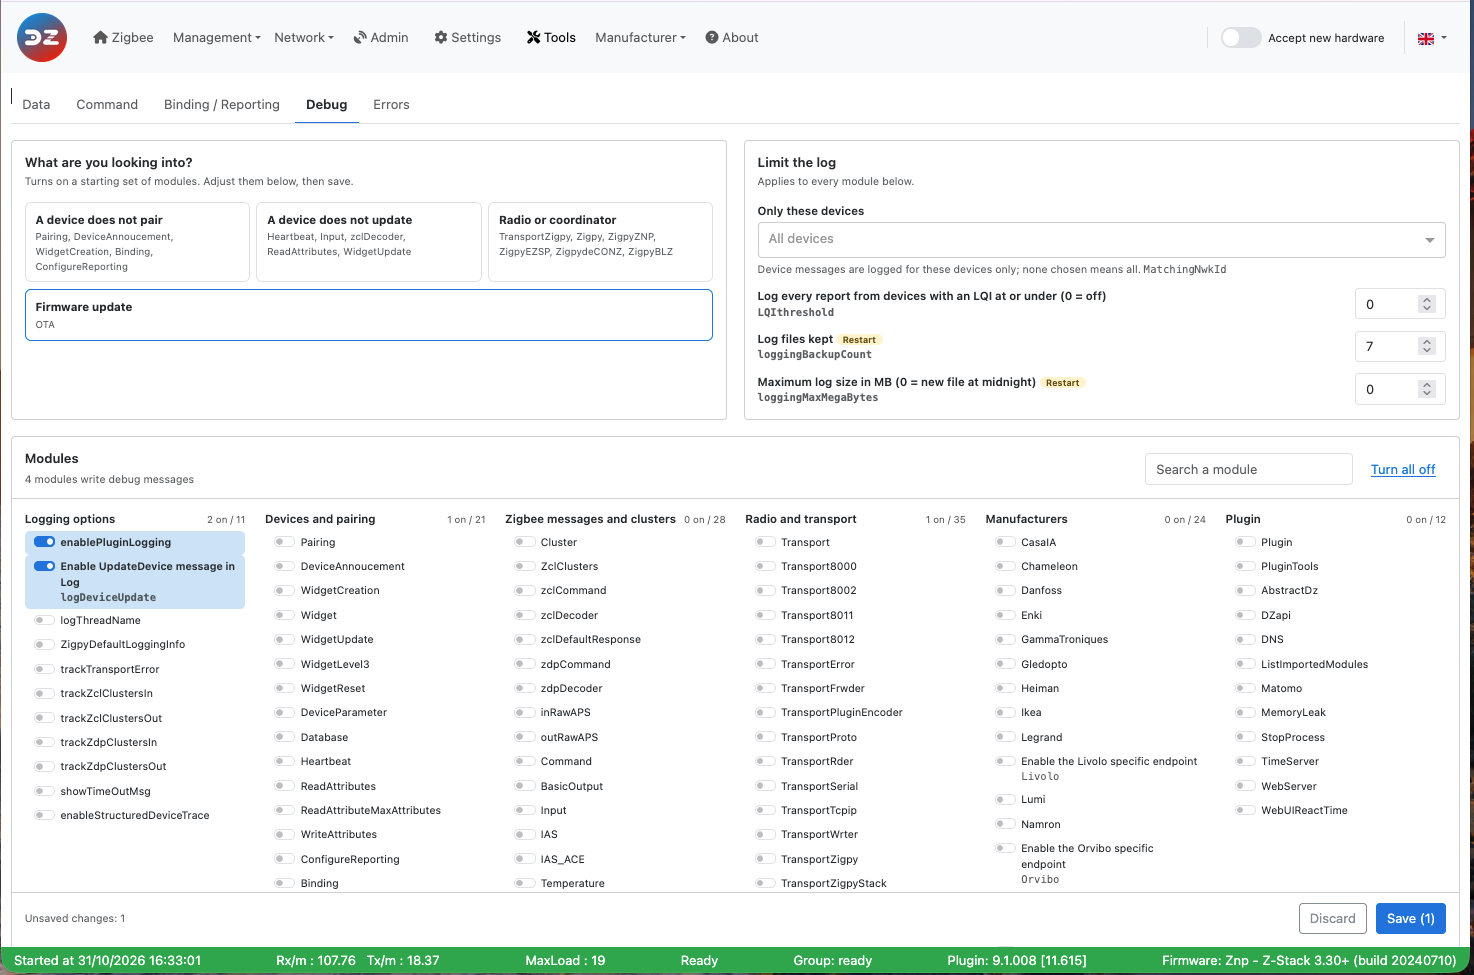
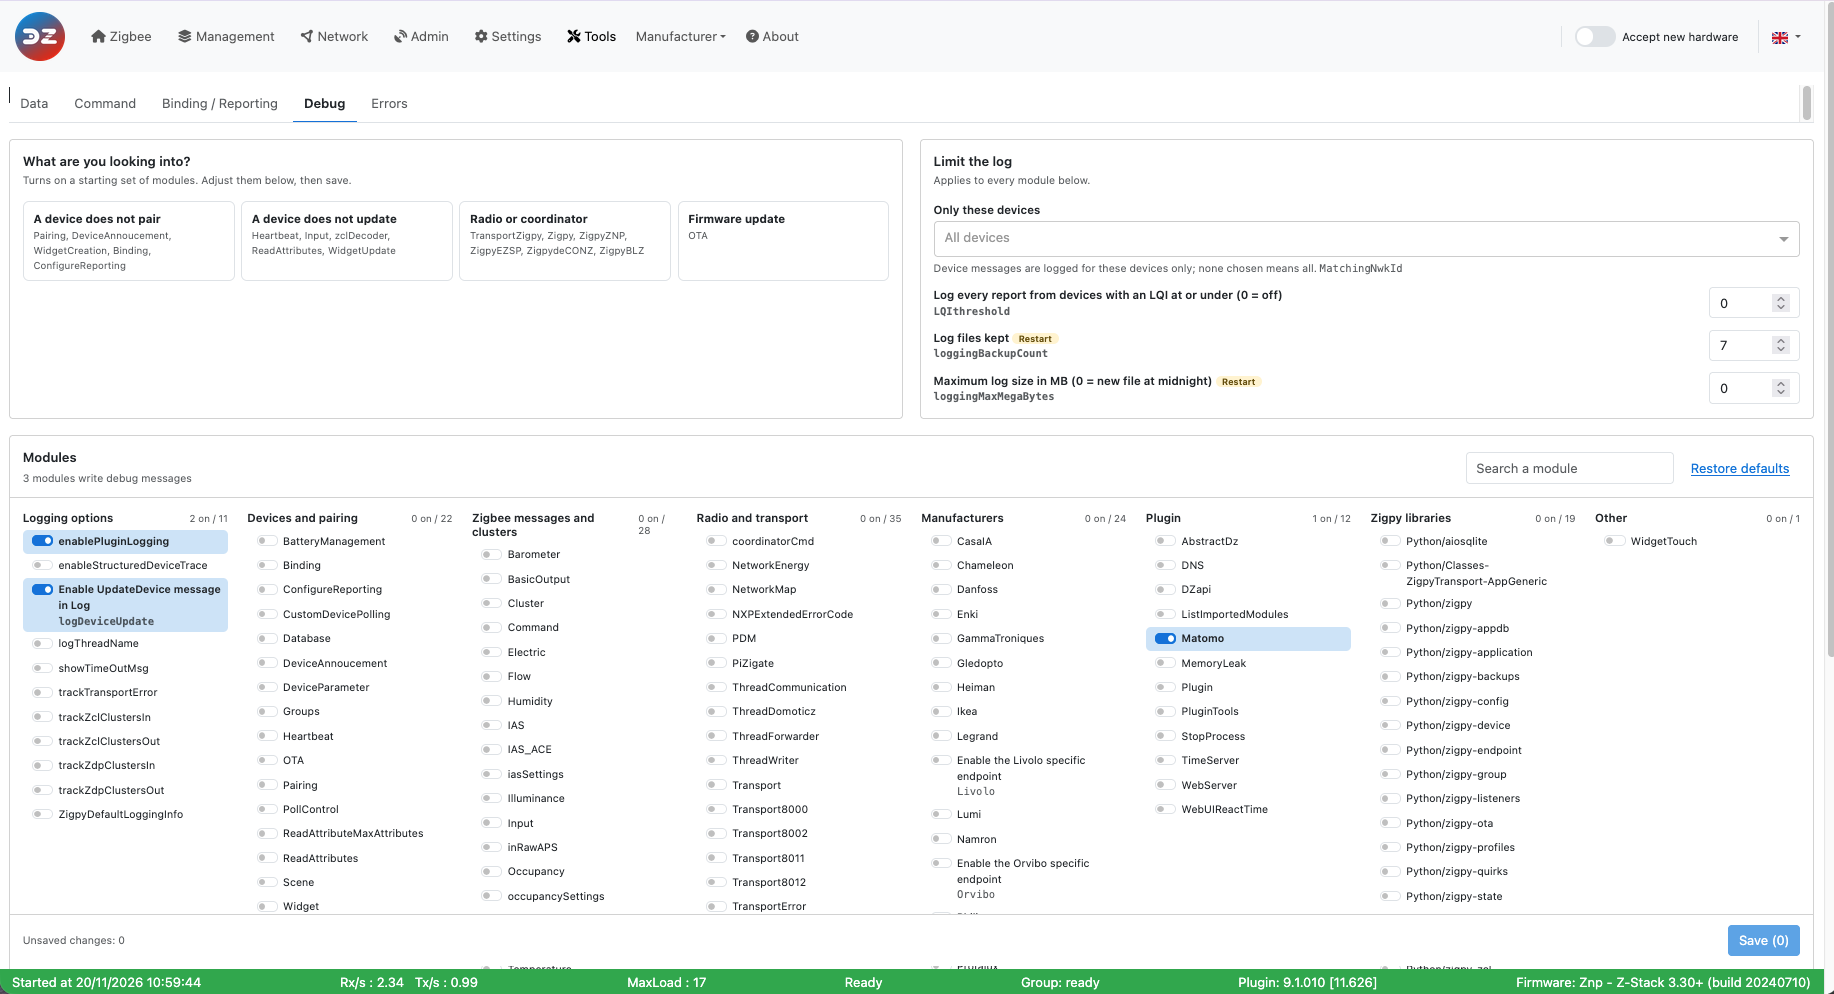
Tools > Debug: Restore defaults, WidgetTouch (plugin 9.1.010)
- Turn all off became Restore defaults (Domoticz-Zigbee-UI #385): module
  switches and Only these devices go back to the plugin defaults, so
  enablePluginLogging, logDeviceUpdate and NXPExtendedErrorCode stay on.
- New WidgetTouch debug category (Domoticz-Zigbee #2244), shown in the
  Other group.
- Screenshot of the 9.1.010 Debug tab.

Claude-Session: https://claude.ai/code/session_017BKZpJtbN6oJB7RGDkBQzA

diff --git a/en-eng/WebUI_Tools.md b/en-eng/WebUI_Tools.md
@@ -177,7 +177,7 @@ The __Debug__ tab (*Tools > Debug*) chooses which parts (modules) of the plugin 
   * *Only these devices* (`MatchingNwkId`): device messages are only logged for the devices you choose; none chosen means all devices.
   * `LQIthreshold`: logs every report from the devices with an LQI at or under this value (0 turns it off).
   * `loggingBackupCount`, the number of log files kept, and `loggingMaxMegaBytes`, the maximum size of a log file (0 = a new file every night). Both need a plugin restart.
-* **Modules**: the switches, grouped as *Logging options*, *Devices and pairing*, *Zigbee messages and clusters*, *Radio and transport*, *Manufacturers*, *Plugin*, and *Zigpy libraries* (the `Python/…` loggers of zigpy and its radio libraries). Each group shows how many of its modules are on. *Search a module* filters them; *Turn all off* switches every module off.
+* **Modules**: the switches, grouped as *Logging options*, *Devices and pairing*, *Zigbee messages and clusters*, *Radio and transport*, *Manufacturers*, *Plugin*, *Zigpy libraries* (the `Python/…` loggers of zigpy and its radio libraries), and *Other* for the modules in no group (such as `WidgetTouch`). Each group shows how many of its modules are on. *Search a module* filters them. *Restore defaults* puts every module switch and *Only these devices* back to the plugin defaults; the logging options that are on by default (`enablePluginLogging`, `logDeviceUpdate`, `NXPExtendedErrorCode`) stay on. Before plugin 9.1.010, *Turn all off* switched every module off, those three included.
 
 The changes are counted at the bottom (*Unsaved changes*). *Save (N)* sends them to the plugin, *Discard* drops them. The modules take effect immediately; when a change needs a restart, the WebUI says so and the *Restart needed* indicator appears.
 

diff --git a/en-eng/Problem_Debuging-mode.md b/en-eng/Problem_Debuging-mode.md
@@ -26,7 +26,7 @@ The debugging options are in the WebUI, **Tools > Debug** (see [WebUI Tools](Web
 
 * **What are you looking into?** turns on a starting set of modules for a type of problem (a device does not pair, a device does not update, radio or coordinator, firmware update);
 * **Limit the log** holds `MatchingNwkId` (*Only these devices*: pick the devices in the list), `LQIthreshold`, `loggingBackupCount` and `loggingMaxMegaBytes`;
-* **Modules** holds the switches, grouped by what they cover, with a search and *Turn all off*.
+* **Modules** holds the switches, grouped by what they cover, with a search and *Restore defaults* (*Turn all off* before plugin 9.1.010).
 
 Switch on the modules you need and click **Save**. They take effect immediately, no restart needed (except `enablePluginLogging`, `loggingBackupCount` and `loggingMaxMegaBytes`).
 
@@ -55,6 +55,7 @@ Each module enables the debug messages of one part of the plugin. The ones you w
 | `Input` | Incoming messages from the coordinator |
 | `Cluster` | Decoding of the incoming messages: this is where the plugin extracts the values from the message payload |
 | `Widget`, `WidgetUpdate` | Update of the DomoticZ widgets, usually called from Input or Cluster |
+| `WidgetTouch` | Refresh of the widgets' *Last Seen* (touch), with the device, when a widget is skipped and why (plugin 9.1.010 and later). For a device whose *Last Seen* stays old |
 | `WidgetCreation` | Creation of the DomoticZ widgets at pairing |
 | `Command` | Actions coming from DomoticZ (switch on, set level...) |
 | `BasicOutput` | Commands sent to the devices |

diff --git a/en-eng/Troubleshooting_Reporting-a-problem.md b/en-eng/Troubleshooting_Reporting-a-problem.md
@@ -117,7 +117,7 @@ By default, the plugin doesn't write debug messages. To understand a problem, or
 1. **Enable `logThreadName`** when you will send the logs: each line then shows the thread, the module and the device short address, which makes the analysis much easier.
 1. **Reproduce the problem**, and note the time when it happens.
 1. **Collect** the part of the plugin log file around that time.
-1. **Disable the debug modules** when you are done (*Turn all off*, then **Save**; before plugin 9.1.009, **Settings (default)**): some modules are very verbose and make the log file grow fast.
+1. **Disable the debug modules** when you are done (*Restore defaults*, then **Save**; *Turn all off* in plugin 9.1.009; before, **Settings (default)**): some modules are very verbose and make the log file grow fast.
 
 The `Python/zigpy...` modules show the messages of the zigpy library itself. They are very verbose: enable them only when asked.
 
